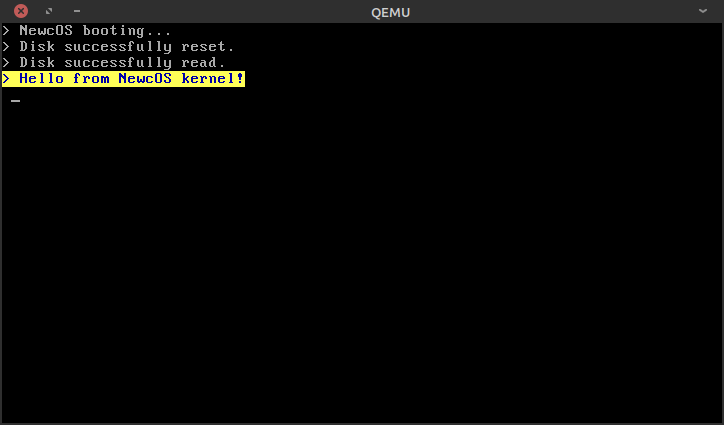
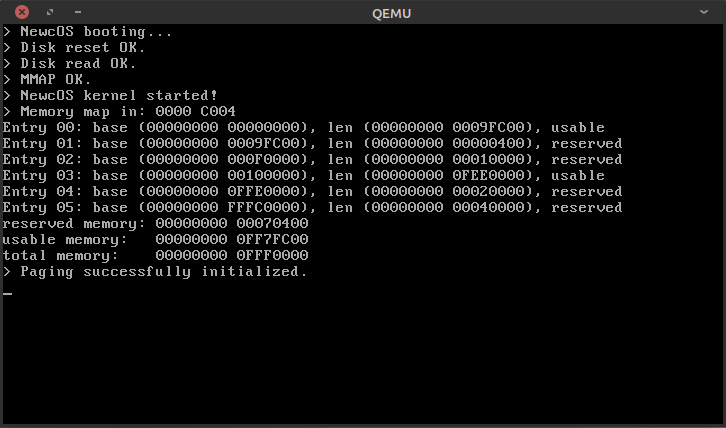
Docs: pmode, building kernel, screenshot.

diff --git a/doc/README.md b/doc/README.md
@@ -66,3 +66,32 @@ fetched by the CPU (thanks to the segment registers and our configuration of the
 In order to do this, we must carefully lay this data out in our bootloader and then ask the CPU to
 load it with the instruction `lgdt` (load GDT).
 
+## Entering Protected Mode
+
+After loading the GDT, we need to enter 32-bit protected mode before handing control to the kernel.
+
+In order to do this, we set the lowest bit of the `cr0` register and then make a "long jump"
+(a jump specifying a segmented address). The destination of the jump should be assembled in 32-bit mode
+(`bits 32` nasm directive). Next, we need to update all segment registers to point to
+the offset of the data segment in the GDT.
+
+After that, we setup another stack, that will be used by the kernel. Now we are ready to call the
+kernel entry point. This address will be the same where we loaded the kernel in memory previously.
+
+## Notes about how to Build the Kernel
+
+Since we are writing the kernel in C and we don't link our kernel together with the boot binary, it is
+difficult to know where the kernel `main` function will be placed. For that reason, it is
+easier to setup an assembly file ([`kernel/entry.asm`](../kernel/entry.asm)) that will be placed
+in the first address of the binary, and whose only job is to call the kernel main function.
+This assembly file generates an object that will be linked against the kernel object, so it can easily
+find the `main` function. We also have to instruct the linker to set a fixed offset for the kernel
+binary (`-Ttext 0x10000`), so that we have a known address to call it from the bootloader.
+
+The final OS image is built by concatenating (`cat`) the bootloader with the kernel binary, and then
+truncating it to a fixed larger size so that we can read it more easily from disk as shown above.
+If our image is smaller than the number of sectors specified to be read (at least in qemu) we will get
+an error.
+
+Take a look at the [`Makefile`](../Makefile) to see how we build the kernel binary.
+

diff --git a/README.md b/README.md
@@ -1,5 +1,7 @@
 Toy OS for learning purposes.
 
+We document the process [here](/doc/README.md).
+
 # Running
 
 You need a Linux machine with `nasm`, `qemu` and `make` installed.
@@ -10,7 +12,8 @@ Then run:
 
     $ make
 
-For now you should see a message from our kernel.
+For now you should see a hello message from our kernel, a memory mapping and
+the total memory size, plus some other logs.
 
 ![NewcOS screenshot](/doc/screenshot.png?raw=true)
 
@@ -20,11 +23,15 @@ We have so far:
 
 * Bootloader
 
+* Memory mapping via BIOS
+
 * Interrupt handling
 
 * VGA driver
 
-* Keyboard driver (almost done)
+* Keyboard driver
+
+* Virtual Memory/Paging (very basic so far)
 
 ---
 
